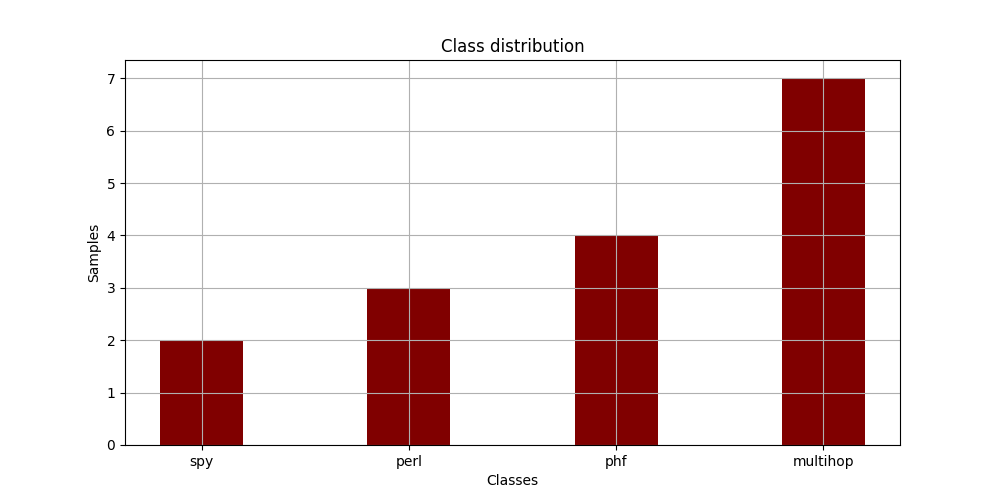
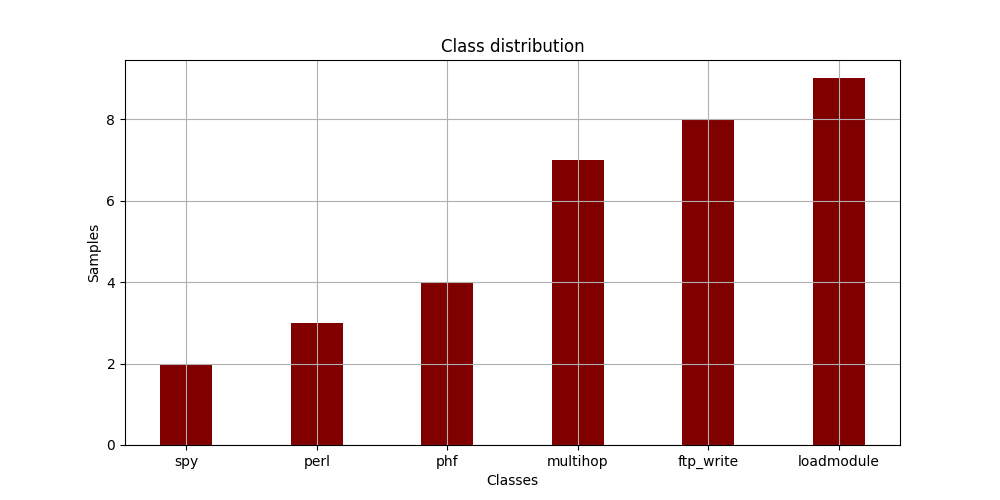
Draw plots of attack statistics

diff --git a/main.py b/main.py
@@ -10,36 +10,20 @@ import distributions
 import stats
 
 def draw_plots():
-    df = NSL_KDD.dataframe(path)
-    data = {}
-    keys = df[column_name].unique()
-    for key in keys:
-        data[key] = df[column_name].value_counts()[key]
-    values = list(data.values())
     path = ["data/NSL_KDD/KDDTrain+.txt",
             "data/NSL_KDD/KDDTest+.txt",
             "data/NSL_KDD/KDDTrain+_20Percent.txt",
             "data/NSL_KDD/KDDTest-21.txt"]
     for x in path:
-        dataset_name = x.split("/")[-1].split(".")[0]
-        plots.bar_graph(x, dataset_name, "protocol_type", "Protocol", "Occurrences", "Protocol occurences by type", "features")
-        plots.bar_graph(x, dataset_name, keys, values, "service", "Service", "Occurrences", "Service occurences by type", "features")
-        plots.bar_graph(x, dataset_name, keys, values, "flag", "Flag", "Occurrences", "Flag occurences by type", "features")
-        plots.bar_graph(x, dataset_name, keys, values, "class", "Class", "Occurrences", "Class occurences by type", "features")
-        plots.bar_graph(x, dataset_name, keys, values,"attack_type", "Attack Type", "Occurrences", "Attack occurences by type", "features")
-        plots.bar_graph(x, dataset_name, keys, values, "logged_in", "Logged In (1 - Yes, 0 - No)", "Occurrences", "Success", "features")
-        plots.correlation(dataset_name, x)
+        distributions.attack(x)
+        distributions.types(x)
+        distributions.classes(x)
 
 def main():
+    #draw_plots()
+    #print(NSL_KDD.dataframe("data/NSL_KDD/KDDTrain+.txt"))
     #distributions.bernoulli()
     #distributions.multinomial()
-    #print(stats.distribution("data/NSL_KDD/KDDTrain+.txt"))
-    #print(stats.attack_types("data/NSL_KDD/KDDTrain+.txt"))
-    #print(stats.attack_subtypes("data/NSL_KDD/KDDTrain+.txt"))
-    #print(stats.group_attacks("data/NSL_KDD/KDDTrain+.txt"))
-    #distributions.attack("data/NSL_KDD/KDDTrain+.txt")
-    #distributions.types("data/NSL_KDD/KDDTrain+.txt")
-    distributions.classes("data/NSL_KDD/KDDTrain+.txt")
     #models.reccurent_neural_network()
 
 if __name__ == "__main__":

diff --git a/distributions.py b/distributions.py
@@ -44,7 +44,7 @@ def classes(path):
     df = stats.attack_subtypes(path)
     df_sorted = sorted(df.items(), key=lambda x:x[1])
     df = dict(df_sorted)
-    data = split_dictionary(df, 4)
+    data = split_dictionary(df, 6)
     for x in range(len(data)):
         keys = list(data[x].keys())
         values = list(data[x].values())

diff --git a/stats.py b/stats.py
@@ -43,3 +43,9 @@ def group_attacks(path):
         new_df = df[df['attack_type'] == value]
         data[value] = list(new_df['class'].unique())
     return data
+
+def features(path):
+    """Count feature statistics"""
+    df = NSL_KDD.dataframe(path)
+    values = df[''].unique()
+    return values
